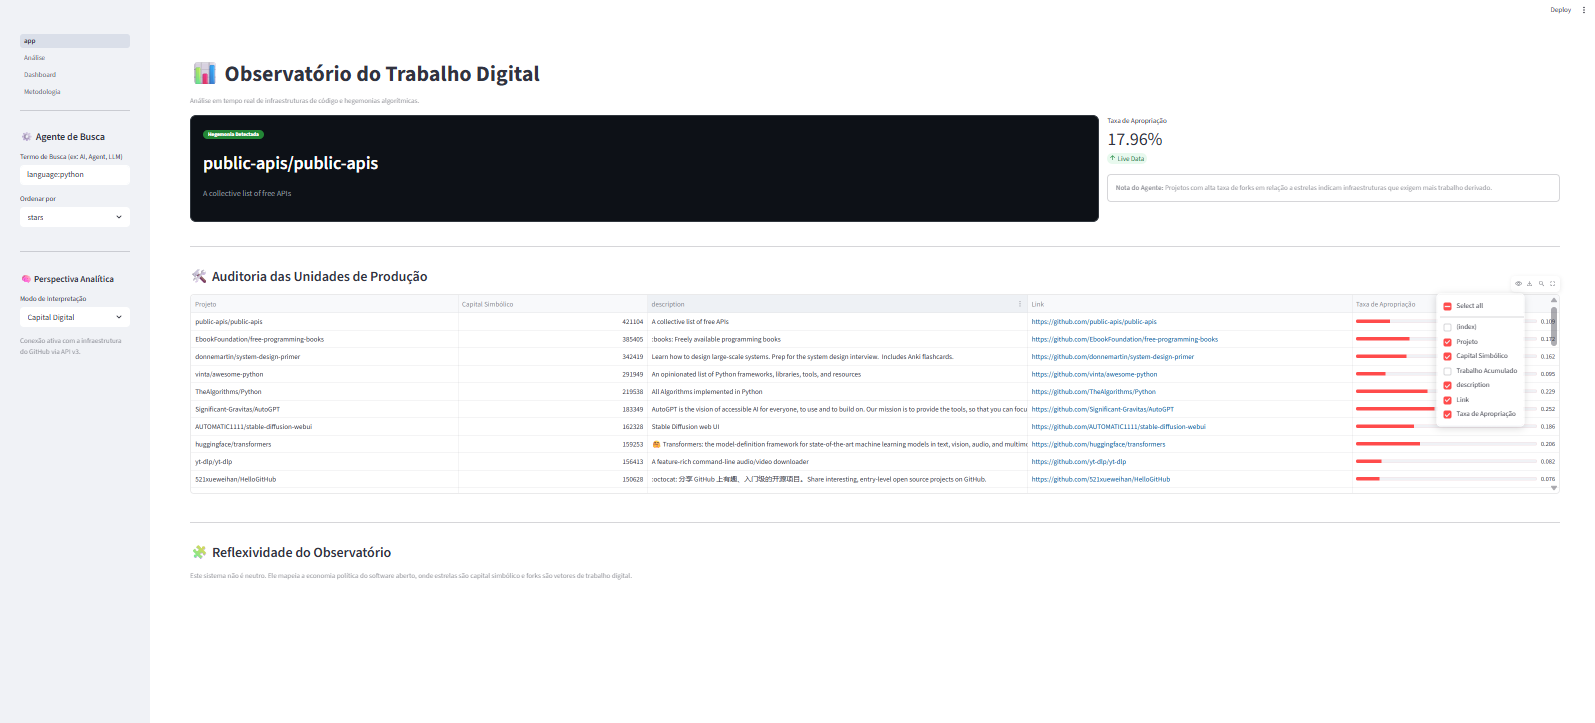
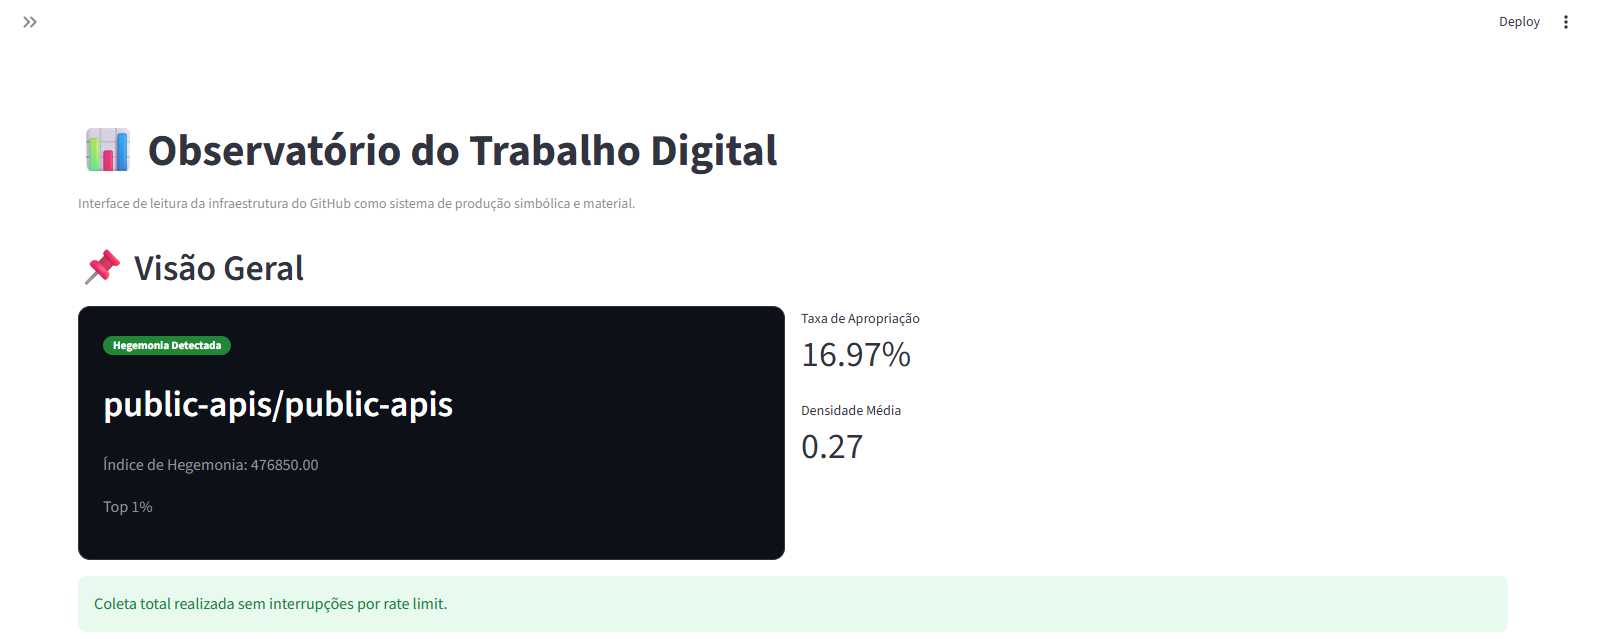
Refatora README, adiciona documentação profissional e atualiza assets visuais

diff --git a/README.md b/README.md
@@ -1,176 +1,93 @@
-# 🔍 Anatomia do Capital Digital
-
-### Um Dashboard Crítico sobre Visibilidade no GitHub
-
----
-
+# 📊 README PROFISSIONAL (AJUSTADO À SUA ESTRUTURA)
+Pode substituir seu `README.md` por isso 👇
+# 📊 GitHub Analytics Dashboard
+> Análise crítica da distribuição de visibilidade no ecossistema de código aberto
+## 🎥 Demonstração
+[![Assista ao vídeo](https://img.youtube.com/vi/SEU_VIDEO_ID/0.jpg)](https://www.youtube.com/watch?v=SEU_VIDEO_ID)
 ## 🧠 Sobre o Projeto
-
-Este projeto não busca identificar “os melhores repositórios”.
-Ele propõe algo diferente:
-
-> **Analisar como a visibilidade é distribuída dentro do ecossistema de código aberto.**
-
-A partir de dados da API do GitHub, o sistema constrói um painel interativo que permite observar como métricas como *stars* operam como sinais sociais — e não necessariamente como indicadores de qualidade.
-
----
-
+Este projeto apresenta um dashboard interativo desenvolvido com Python e Streamlit para análise de dados da API do GitHub.
+Diferente de abordagens tradicionais, o objetivo não é identificar “os melhores repositórios”, mas investigar:
+> **Como a visibilidade é distribuída no código aberto?**
+A análise considera que métricas como *stars* funcionam como sinais sociais — frequentemente refletindo exposição acumulada, e não necessariamente qualidade técnica.
 ## ⚖️ Problema
-
-Plataformas digitais frequentemente utilizam métricas quantitativas (ex: estrelas) como proxy de relevância.
-
-No entanto:
-
-* Visibilidade não é distribuída de forma equitativa
-* Projetos já populares tendem a acumular ainda mais atenção
-* Pequenos projetos permanecem invisíveis
-
-👉 Isso levanta uma questão central:
-
-> **O que realmente está sendo medido — qualidade ou visibilidade acumulada?**
-
----
-
+- Visibilidade não é distribuída de forma equitativa  
+- Projetos populares acumulam mais atenção  
+- Projetos menores permanecem invisíveis  
+👉 Questão central:
+> **Estamos medindo qualidade ou visibilidade?**
 ## 🎯 Objetivo
-
-Construir um sistema que:
-
-* Colete dados da API do GitHub
-* Estruture esses dados em um pipeline analítico
-* Apresente visualizações interativas
-* Estimule uma leitura crítica sobre métricas de popularidade
-
----
-
-## 🧱 Arquitetura do Projeto
-
+- Coletar dados da API do GitHub  
+- Processar métricas  
+- Construir visualizações interativas  
+- Permitir análise exploratória  
+- Estimular leitura crítica de dados  
+## 🏗️ Estrutura do Projeto
 ```bash
-github-analytics-dashboard/
-│
-├── app.py
-├── pages/
-│   ├── Dashboard.py
-│   ├── Analise.py
-│   └── Metodologia.py
-│
-├── utils/
-│   └── api.py
-│
-├── .streamlit/
-│   └── secrets.toml
-│
-├── requirements.txt
+.
+├── app.py                  # Ponto de entrada do app
+├── core/                   # Lógica de negócio
+├── services/               # Pipeline e processamento
+├── infrastructure/         # Integração com API do GitHub
+├── ui/                     # Interface do usuário
+├── models/                 # Modelos de dados
+├── data/                   # Dados locais (ex: history.csv)
+├── assets/                 # Imagens e recursos visuais
+├── requirements.txt        # Dependências
 └── README.md
+````
+## 🔄 Pipeline de Dados
 ```
-
-### 🔄 Fluxo de Dados
-
-```text
-GitHub API → Coleta (requests)
-           → Cache (Streamlit)
-           → Processamento (pandas)
-           → Visualização (Plotly)
-           → Interface (Streamlit)
+GitHub API → Coleta → Processamento → Análise → Visualização → Interface
 ```
-
 ---
-
-## ⚙️ Tecnologias Utilizadas
-
-* **Python**
-* **Streamlit** — interface interativa
-* **Pandas** — manipulação de dados
-* **Plotly** — visualização
-* **Requests** — integração com API
-* **Git + GitHub** — versionamento
-
----
-
+## ⚙️ Tecnologias
+* Python
+* Streamlit
+* Pandas
+* Plotly
+* Requests
+* Git + GitHub
 ## ⚡ Funcionalidades
-
-* 🔎 Filtro por linguagem de programação
-* 📄 Controle de profundidade da coleta (paginação)
-* 📊 Ranking de repositórios por visibilidade (stars)
-* 📈 Métricas agregadas:
-
-  * Volume total de visibilidade
-  * Pico de atenção
-  * Número de entidades analisadas
-* 🧾 Visualização de dados brutos
-* ⚠️ Tratamento de erros da API
-* 🔐 Integração com token (segurança + estabilidade)
-* ⚡ Cache de dados para performance
-
+* 🔎 Filtro por linguagem
+* 📄 Paginação da API
+* 📊 Ranking por *stars*
+* 📈 Métricas agregadas
+* 🧾 Visualização de dados
+* ⚠️ Tratamento de erros
+* 🔐 Uso de token seguro
+* ⚡ Cache para performance
+## 📊 Insight Principal
+> **A visibilidade é concentrada.**
+Poucos repositórios concentram a maior parte das *stars*, indicando:
+* efeito cumulativo
+* desigualdade estrutural
+* popularidade ≠ qualidade
+## 🧪 Limitações
+* Limites da API do GitHub
+* Stars não representam qualidade
+* Amostragem parcial
+* Sem análise temporal
+## 🚀 Como Executar
+```bash
+git clone https://github.com/jhonmax75/github-analytics-dashboard.git
+cd github-analytics-dashboard
+pip install -r requirements.txt
+streamlit run app.py
+```
 ---
-
-## 🔐 Segurança
-
-O projeto utiliza variáveis sensíveis via:
-
-```toml
+## 🔐 Configuração
+Crie:
+```
 .streamlit/secrets.toml
 ```
-
-Isso evita exposição de tokens no repositório.
-
----
-
-## 🚀 Deploy
-
-O projeto está pronto para deploy no Streamlit Cloud.
-
-### Passos:
-
-1. Subir o repositório no GitHub
-2. Configurar `secrets.toml` no painel do Streamlit
-3. Executar o app
-
----
-
-## 📊 Insight Principal
-
-Os dados revelam um padrão consistente:
-
-> **A visibilidade é concentrada.**
-
-Poucos repositórios concentram grande parte das estrelas, indicando um efeito de acumulação cumulativa.
-
-Isso sugere que:
-
-* Popularidade gera mais popularidade
-* A métrica reforça desigualdades estruturais
-* Rankings refletem exposição, não necessariamente mérito técnico
-
----
-
-## 🧪 Limitações
-
-* Dados limitados pela API do GitHub
-* Stars não representam qualidade técnica
-* Amostragem parcial (paginação)
-* Ausência de análise temporal (ainda)
-
----
-
-## 🔭 Próximos Passos
-
-* 📈 Análise temporal de crescimento de stars
-* 🧠 Modelos de distribuição (desigualdade)
-* 📦 Exportação de dados (CSV/Parquet)
-* 🌐 API própria para consumo externo
-
----
-
+```toml
+GITHUB_TOKEN = "seu_token_aqui"
+```
+## 🖼️ Interface
+![Navigation](assets/app/navigation.png)
+![Run](assets/app/run-command.png)
 ## 👤 Autor
-
 **Jhon Max Polins Ribeiro**
-
----
-
 ## 💡 Consideração Final
-
-Este projeto não oferece respostas definitivas.
-
-Ele propõe uma mudança de perspectiva:
-
-> **Visualizar dados não é compreender — é interpretar.**
+Este projeto não busca respostas definitivas.
+> **Ele propõe uma mudança de perspectiva sobre como interpretamos métricas.**